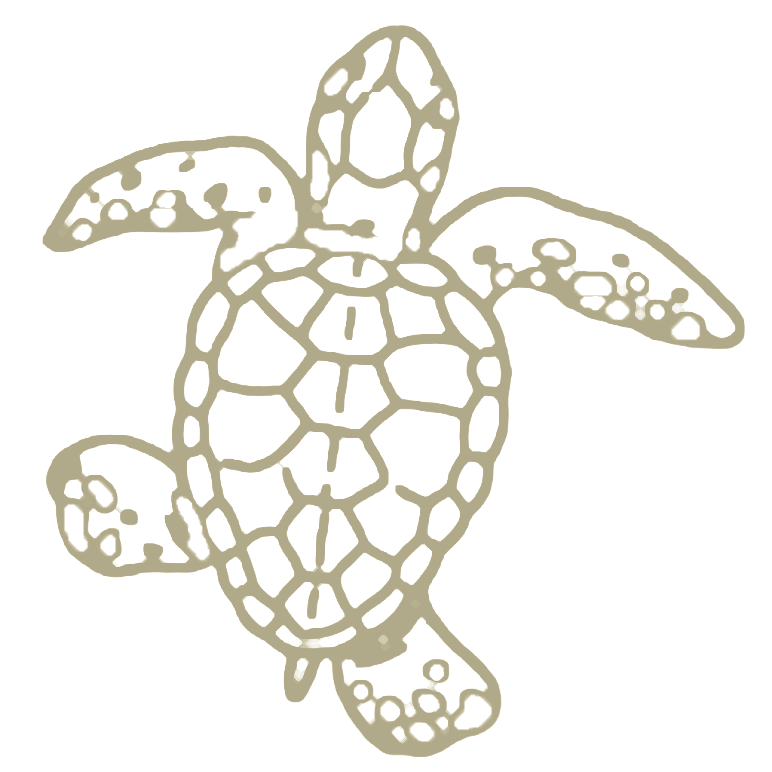
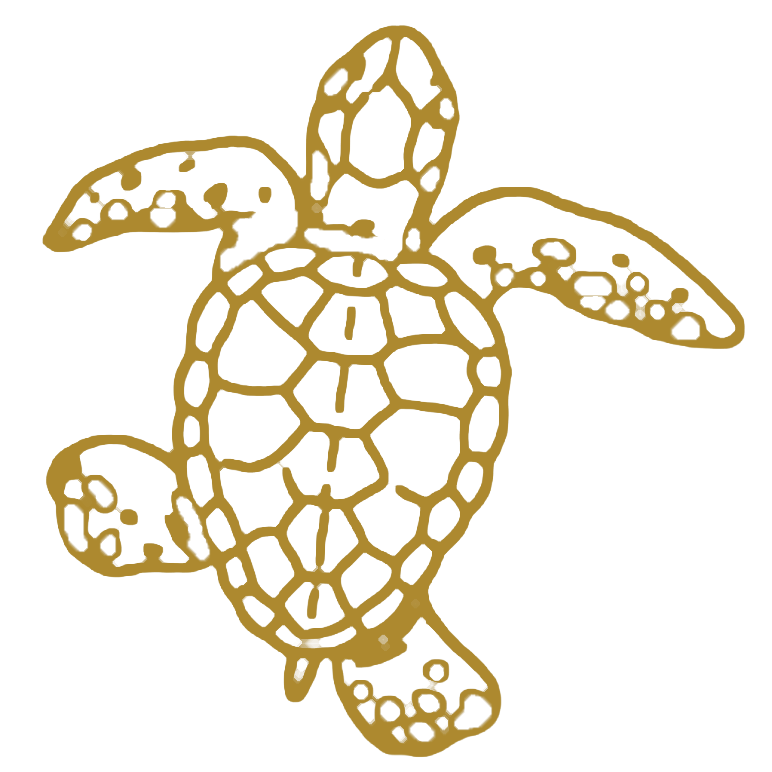
para que lo puedas ver

Changed region(s): [[0.0622, 0.0311, 0.9637, 0.9948]]

diff --git a/app/_cards/ceremony.tsx b/app/_cards/ceremony.tsx
@@ -12,7 +12,7 @@ const Ceremony = (props: ICeremony) => {
 				<div className="relative">
 					{/* MATRIMONIO text absolutely centered */}
 					<div className="absolute top-11 inset-0 flex items-center justify-center pointer-events-none z-10">
-						<p className="text-3xl md:text-4xl font-light font-serif text-white uppercase tracking-wide">Matrimonio</p>
+						{/* <p className="text-3xl md:text-4xl font-light font-serif text-white uppercase tracking-wide">Matrimonio</p> */}
 					</div>
 
 					{/* Grid structure */}
@@ -23,24 +23,45 @@ const Ceremony = (props: ICeremony) => {
 						<div className="border border-white p-2 text-center text-white">domingo</div>
 
 						{/* Number row - 3 squares */}
-						<div className="border bg-foreground-light border-white p-1 text-center text-white text-2xl aspect-4/3 flex items-start justify-start">5</div>
-						<div className="border border-white p-1 text-center text-white text-2xl aspect-4/3 flex items-start justify-start">6</div>
-						<div className="border bg-foreground-light border-white p-1 text-center text-white text-2xl aspect-4/3 flex items-start justify-start">7</div>
+						<div className="border flex flex-col bg-foreground-light border-white p-1 text-center text-white text-2xl aspect-4/3  items-start justify-start">
+							<p>5</p>
+							<p className="text-left text-sm">Open house Sazagua</p>
+						</div>
+						<div className="border flex flex-col border-white p-1 text-center text-white text-2xl aspect-4/3  items-start justify-start">
+							<p>6</p>
+							<p className="text-left text-sm">Matrimonio</p>
+						</div>
+						<div className="border bg-foreground-light border-white p-1 text-center text-white text-2xl aspect-4/3 flex items-start justify-start">
+							<p>7</p>
+						</div>
 					</div>
 				</div>
-				<div className=" grid grid-cols-2 gap-y-4 px-2 py-10">
+				<p className="h2 pt-4 text-highlight  leading-5 font-black">VIERNES</p>
+				<div className=" grid grid-cols-2 gap-y-4 px-0 pb-9">
 					<div className="flex flex-col">
 						<p className="h3 font-semibold">Lugar</p>
-						<p>Hacienda San Jorge</p>
-						<p>
-							Cerritos, <span className="font-bold">Pereira</span>
-						</p>
+						<p className="leading-5">Sazagua Hotel Boutique</p>
+						<p className="leading-5 body-small font-black">Cerritos, Pereira</p>
+						<p className="h3 font-semibold mt-3">Horario</p>
+						<p className="leading-5">3pm a 9pm</p>
 					</div>
-					<div className="flex flex-col items-end">
-						<p className="h3 font-semibold">Horario</p>
-						<p>4:00 p.m. - Ceremonia</p>
-						<p>5:30 p.m. - Coctel</p>
-						<p>7:00 p.m. - Cena</p>
+					<div className="flex flex-col">
+						<p className="h3 font-semibold">Descripción</p>
+						<p className="leading-5">Open house para vernos antes del gran día</p>
+						<p className="h3 font-semibold mt-3">Dress Code</p>
+						<p className="leading-5">Poolside chic</p>
+					</div>
+				</div>
+				<p className="h2 w-full font-black text-highlight leading-5">SABADO</p>
+				<div className=" grid grid-cols-2 gap-y-4 px-0">
+					<div className="flex flex-col">
+						<p className="h3  font-semibold">Lugar</p>
+						<p className="leading-5">Hacienda San Jorge</p>
+						<p className="leading-5 body-small font-black">Cerritos, Pereira</p>
+					</div>
+					<div className="flex flex-col">
+						<p className="h3  font-semibold mt-1">Horario</p>
+						<p className="leading-5">4:00 p.m. - Ceremonia</p>
 					</div>
 				</div>
 			</div>

diff --git a/app/_cards/pereira.tsx b/app/_cards/pereira.tsx
@@ -7,14 +7,32 @@ const Pereira = (props: IPereira) => {
 				<p className="h1">Lugar</p>
 				<p className="h3 highlight">Bienvenidos a Pereira, corazón del Eje Cafetero</p>
 			</div>
-			<p className="body">
+			<p className="body-small">
 				Pereira es la capital de Risaralda y el corazón del Eje Cafetero colombiano, una región reconocida por sus paisajes montañosos, su cultura cafetera y la
 				calidez de su gente. Es una ciudad vibrante, rodeada de naturaleza exuberante, donde conviven el ritmo moderno y el encanto rural.
 			</p>
-			<p className="body">
+			<p className="body-small">
 				Con un clima templado todo el año y acceso a termales, cafetales y pueblos coloridos como Salento y Filandia, Pereira es el punto perfecto para
 				disfrutar lo mejor del interior de Colombia: buena comida, hospitalidad y una taza del mejor café del mundo.
 			</p>
+			<div className="flex flex-col gap-y-3">
+				<div className="flex flex-col gap-y-1">
+					<p className="font-bold">Ciudad y aeropuerto</p>
+					<p className="body-small">
+						Pereira es la puerta de entrada al Eje Cafetero; llegan por el <span className="font-semibold">Aeropuerto Internacional Matecaña (PEI)</span>, a 15
+						min de Cerritos.
+					</p>
+					<p className="body-small">
+						Taxis oficiales en llegadas y disponibilidad de Uber; trayecto suele estar entre <span className="font-semibold">COP $30.000–$40.000</span>.
+					</p>
+				</div>
+				<div className="flex flex-col gap-y-1">
+					<p className="font-bold">Clima</p>
+					<p className="body-small">
+						Cálido-templado y húmedo todo el año; <span className="font-semibold">24–27 °C de día / 17–19 °C de noche</span> aprox., con lluvias frecuentes.
+					</p>
+				</div>
+			</div>
 		</div>
 	);
 };

diff --git a/app/page.tsx b/app/page.tsx
@@ -2,12 +2,8 @@
 import Image from "next/image";
 import { useEffect } from "react";
 import Ceremony from "./_cards/ceremony";
-import Contactos from "./_cards/contactos";
 import DressCode from "./_cards/dress_code";
-import Panorama from "./_cards/panorama";
-import Pereira from "./_cards/pereira";
 import SleepingArrangements from "./_cards/sleeping_arrangements";
-import Turismo from "./_cards/turismo";
 import TCard from "./_components/card";
 import Grid from "./_components/grid";
 import Heroe from "./_components/heroe";
@@ -37,23 +33,11 @@ const Home = (props: IHome) => {
 					<TCard>
 						<Ceremony />
 					</TCard>,
-					<TCard image="/assets/pereira.webp" imageClassName="object-center object-cover">
-						<Pereira />
-					</TCard>,
-					<TCard>
-						<SleepingArrangements />
-					</TCard>,
-					<TCard>
+					<TCard id="dress-code-card">
 						<DressCode />
 					</TCard>,
 					<TCard>
-						<Panorama />
-					</TCard>,
-					<TCard>
-						<Turismo />
-					</TCard>,
-					<TCard>
-						<Contactos />
+						<SleepingArrangements />
 					</TCard>,
 				]}></Grid>
 		</div>

diff --git a/app/pereira/page.tsx b/app/pereira/page.tsx
@@ -1,0 +1,42 @@
+"use client";
+
+import Contactos from "@/_cards/contactos";
+import Pereira from "@/_cards/pereira";
+import SleepingArrangements from "@/_cards/sleeping_arrangements";
+import Turismo from "@/_cards/turismo";
+import TCard from "@/_components/card";
+import Grid from "@/_components/grid";
+import { useHideStore } from "@/_store/useHideStore";
+import { useEffect } from "react";
+
+interface IPereiraHome {}
+
+const PereiraHome = (props: IPereiraHome) => {
+	const { hide, setHide } = useHideStore();
+
+	useEffect(() => {
+		setHide(false);
+	}, []);
+
+	return (
+		<div className="z-10 relative">
+			<Grid
+				hide={hide}
+				cards={[
+					<TCard image="/assets/pereira.webp" imageClassName="object-center object-cover">
+						<Pereira />
+					</TCard>,
+					<TCard>
+						<SleepingArrangements />
+					</TCard>,
+					<TCard>
+						<Turismo />
+					</TCard>,
+					<TCard>
+						<Contactos />
+					</TCard>,
+				]}></Grid>
+		</div>
+	);
+};
+export default PereiraHome;

diff --git a/app/_components/card.tsx b/app/_components/card.tsx
@@ -5,11 +5,14 @@ interface ITCard {
 	noImage?: boolean;
 	children?: React.ReactNode;
 	imageClassName?: string;
+	id?: string;
 }
 
-const TCard = ({ image = "/assets/FOTOLAGO.png", children, noImage, imageClassName }: ITCard) => {
+const TCard = ({ image = "/assets/FOTOLAGO.png", children, noImage, imageClassName, id }: ITCard) => {
 	return (
-		<div className="md:max-w-110 w-[90svw] relative bg-background-2 h-[87svh] md:h-[80svh] md:aspect-8/16 shadow-[0pt_4pt_10px_-7px_#0000007a] rounded-md max-h-[90%]">
+		<div
+			id={id}
+			className="md:max-w-110 w-[90svw] relative bg-background-2 h-[87svh] md:h-[80svh] md:aspect-8/16 shadow-[0pt_4pt_10px_-7px_#0000007a] rounded-md max-h-[90%]">
 			{!noImage && <div className="z-20 relative rounded-[inherit] bg-[linear-gradient(180deg,_#f4f2e2e6_95%,_transparent)]">{children}</div>}
 			{noImage && children}
 			{!noImage && (

diff --git a/app/_components/navbar.tsx b/app/_components/navbar.tsx
@@ -23,6 +23,9 @@ const Navbar = (props: INavbar) => {
 				<Link href={"/rsvp"} className="text-foreground bg-transparent no-underline text-sm whitespace-nowrap">
 					RSVP
 				</Link>
+				<Link href={"/pereira"} className="text-foreground bg-transparent no-underline text-sm whitespace-nowrap">
+					Pereira
+				</Link>
 				<Link href={"/regalos"} className="text-foreground bg-transparent no-underline text-sm whitespace-nowrap">
 					Regalos
 				</Link>

diff --git a/app/_cards/dress_code.tsx b/app/_cards/dress_code.tsx
@@ -7,7 +7,7 @@ const DressCode = (props: IDressCode) => {
 		<div className="flex flex-col gap-y-4 px-6 py-10">
 			<div>
 				<p className="h1">Dress code</p>
-				<p className="h3 highlight">El evento será formal</p>
+				<p className="h3 highlight">Formal</p>
 			</div>
 			<p className="body">
 				El evento será al aire libre y el terreno es irregular, por lo que recomendamos a las mujeres usar zapatos de plataforma o tacón ancho para mayor

diff --git a/app/_cards/panorama.tsx b/app/_cards/panorama.tsx
@@ -23,7 +23,6 @@ const Panorama = (props: IPanorama) => {
 					<p className="body-small">
 						Cálido-templado y húmedo todo el año; <span className="font-semibold">24–27 °C de día / 17–19 °C de noche</span> aprox., con lluvias frecuentes.
 					</p>
-					<p className="body-small">Llevar impermeable ligero y zapatos con suela antideslizante.</p>
 				</div>
 			</div>
 		</div>

diff --git a/app/globals.css b/app/globals.css
@@ -33,8 +33,8 @@
 	--background-dark: #f4f2e2;
 	--foreground: #7a7442;
 	--foreground-light: #95916b;
-	--highlight-dark: #8b3f4b;
-	--highlight: #aa5360;
+	--highlight-dark: #8b6e1e;
+	--highlight: #ad8820;
 }
 
 @theme inline {
